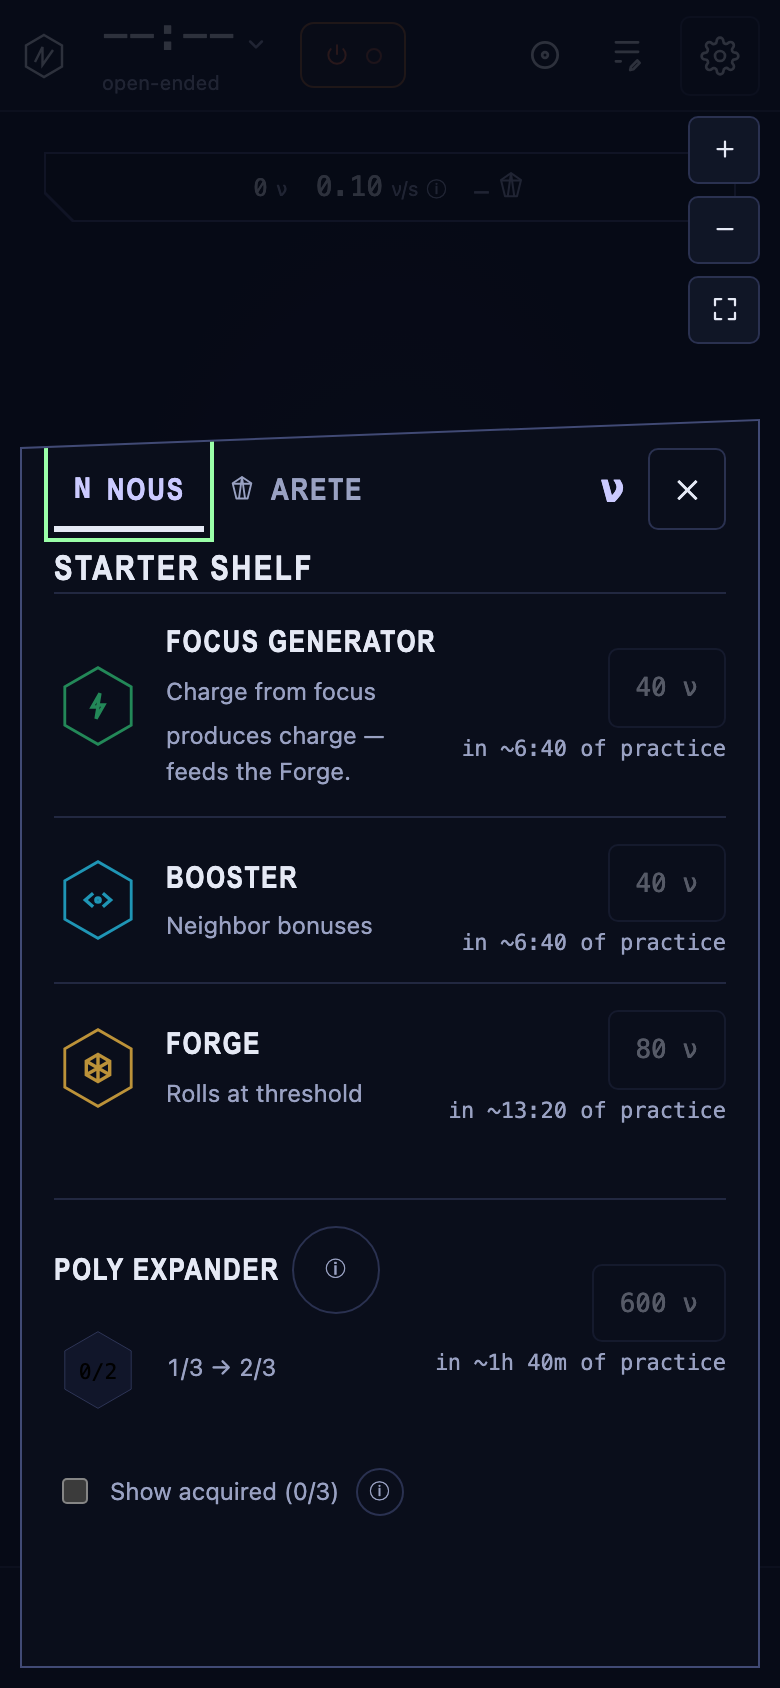
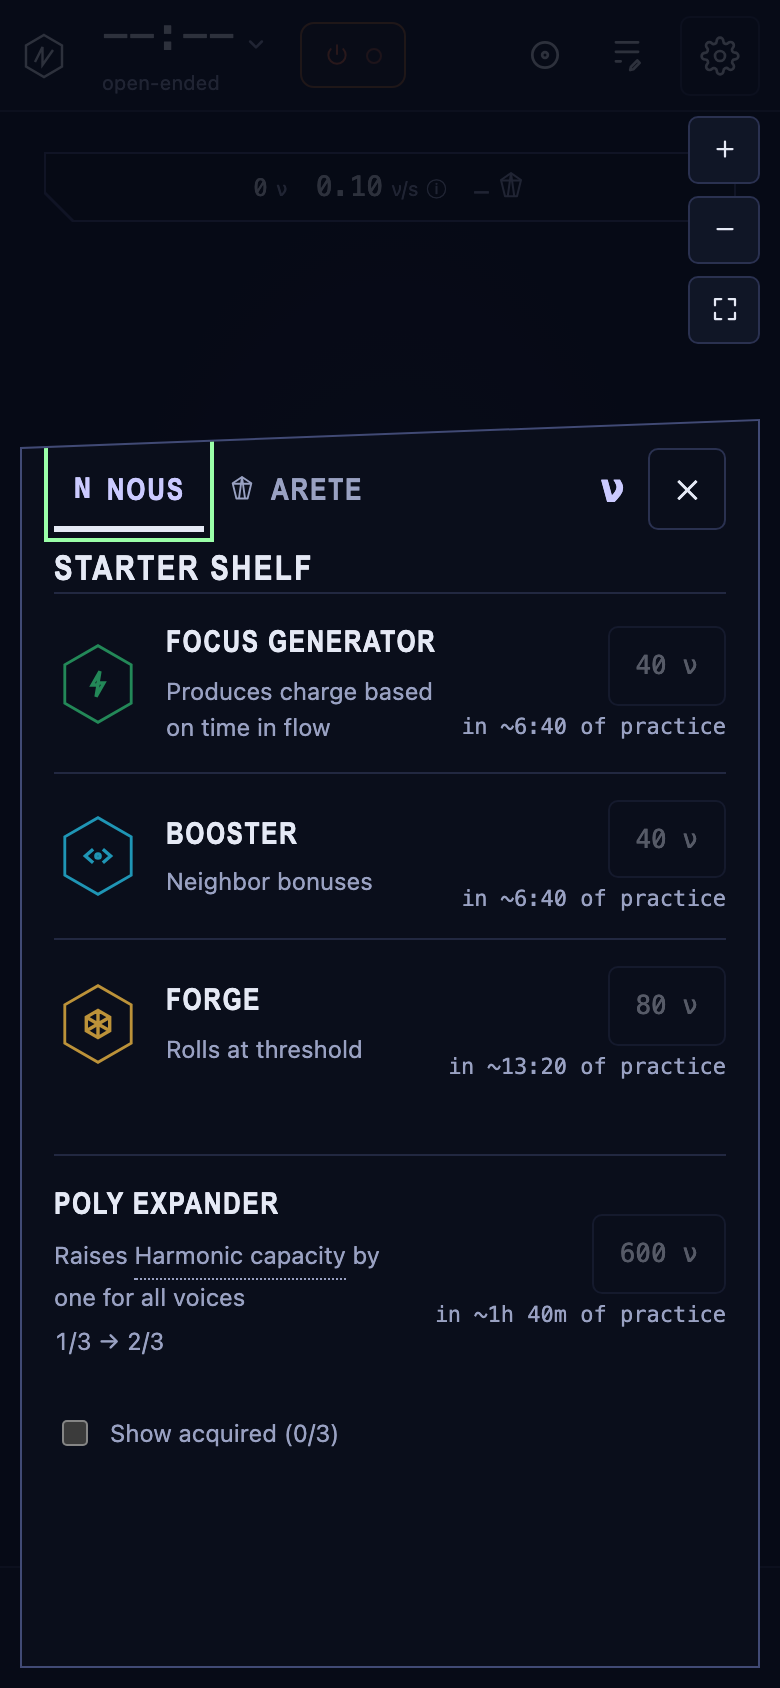
Evidence for the description-line pass

diff --git a/src/ui/style.css b/src/ui/style.css
@@ -3512,11 +3512,11 @@ select { background: var(--panel); color: var(--ink); border: 1px solid var(--li
 /* Separate disclosure keeps the tray tile itself a placement/drag target. */
 .tray-tile-detail { display: flex; flex-direction: column; align-items: center; min-width: 0; }
 .tray-tile-detail > .inst-tip-trigger { min-width: 44px; min-height: 44px; }
-/* Capacity disclosure remains a touch target beside the open catalog rows. */
+/* Capacity rows keep the touch-sized disclosure off — their only trigger
+   now is the inline term, which sizes to its text. */
 .capacity-catalog .catalog-row > div { min-width: 0; }
 .capacity-catalog .catalog-row h3 { display: flex; align-items: center; flex-wrap: wrap; gap: 6px; }
 .capacity-catalog .shop-countdown { display: block; }
-.capacity-catalog .inst-tip-trigger { width: 44px; height: 44px; }
 /* The little module preview (issue #310 steering): the tray tile's own
    simplified mark — category-hued hex outline over the signature glyph —
    beside the row's name block. */

diff --git a/docs/evidence/310-catalog-products/README.md b/docs/evidence/310-catalog-products/README.md
@@ -17,22 +17,23 @@ entry owned, illustrative balances and ladder positions.
 
 - [Desktop nous](desktop-nous-poly-expander.png) and
   [phone nous](phone-nous-poly-expander.png): the nous face in register —
-  starter-shelf rows carry the simplified module preview (the tray tile's
-  category-hued hex and glyph), the capacity row is headed **Poly
-  Expander** with the mono delta `1/3 → 2/3` on its own line beside the
-  blank-module preview, and the acquisition paragraph is gone — the Show
-  acquired toggle's ⓘ glosses `Roll copies stay as combination material`.
-  Price rides the buy button alone, muted here (`0 ν` in the purse) with
-  its practice countdown.
+  starter-shelf rows carry the simplified module preview and one
+  description line (the Focus Generator's: `Produces charge based on time
+  in flow`); the capacity row is headed **Poly Expander**, its effect
+  line `Raises Harmonic capacity by one for all voices` carrying the
+  hoverable term, with the mono delta `1/3 → 2/3` on its own line. No
+  ⓘ on the face; the acquisition paragraph is gone. Price rides the buy
+  button alone, muted here (`0 ν` in the purse) with its practice
+  countdown.
 - [Desktop upgrades](desktop-arete-upgrades.png) and
   [phone upgrades](phone-arete-upgrades.png): the face holds two sections —
   **Upgrades** (the entry's ACQUIRED rewards line, Expansion Bays, Chord
   Catalysts, Headroom, the inert Accelerator placeholder) and **Module
   Types**. Each product is one entry bought twice: owned figure on the
   heading, one effect line with hoverable terms, and the mono delta on its
-  own line (`ceiling 3 → 4`, `prices −0% → −20%`, Headroom's honest
-  `claim: +1 per prestige → + over-line score, cap 25` — the next era's
-  over-line score is not knowable at purchase).
+  own line (`ceiling 3 → 4`, `prices −0% → −20%`). Headroom's description
+  lives in the body (`Earning past the nous cap scales the Arete claim`)
+  with the concrete claim delta (`claim 2 → up to 25`).
 - [Module types](desktop-arete-module-types.png) and
   [phone module types](phone-arete-module-types.png): the section heading
   carries the ⓘ — `Rolled module types appear here unweighted` holds for
